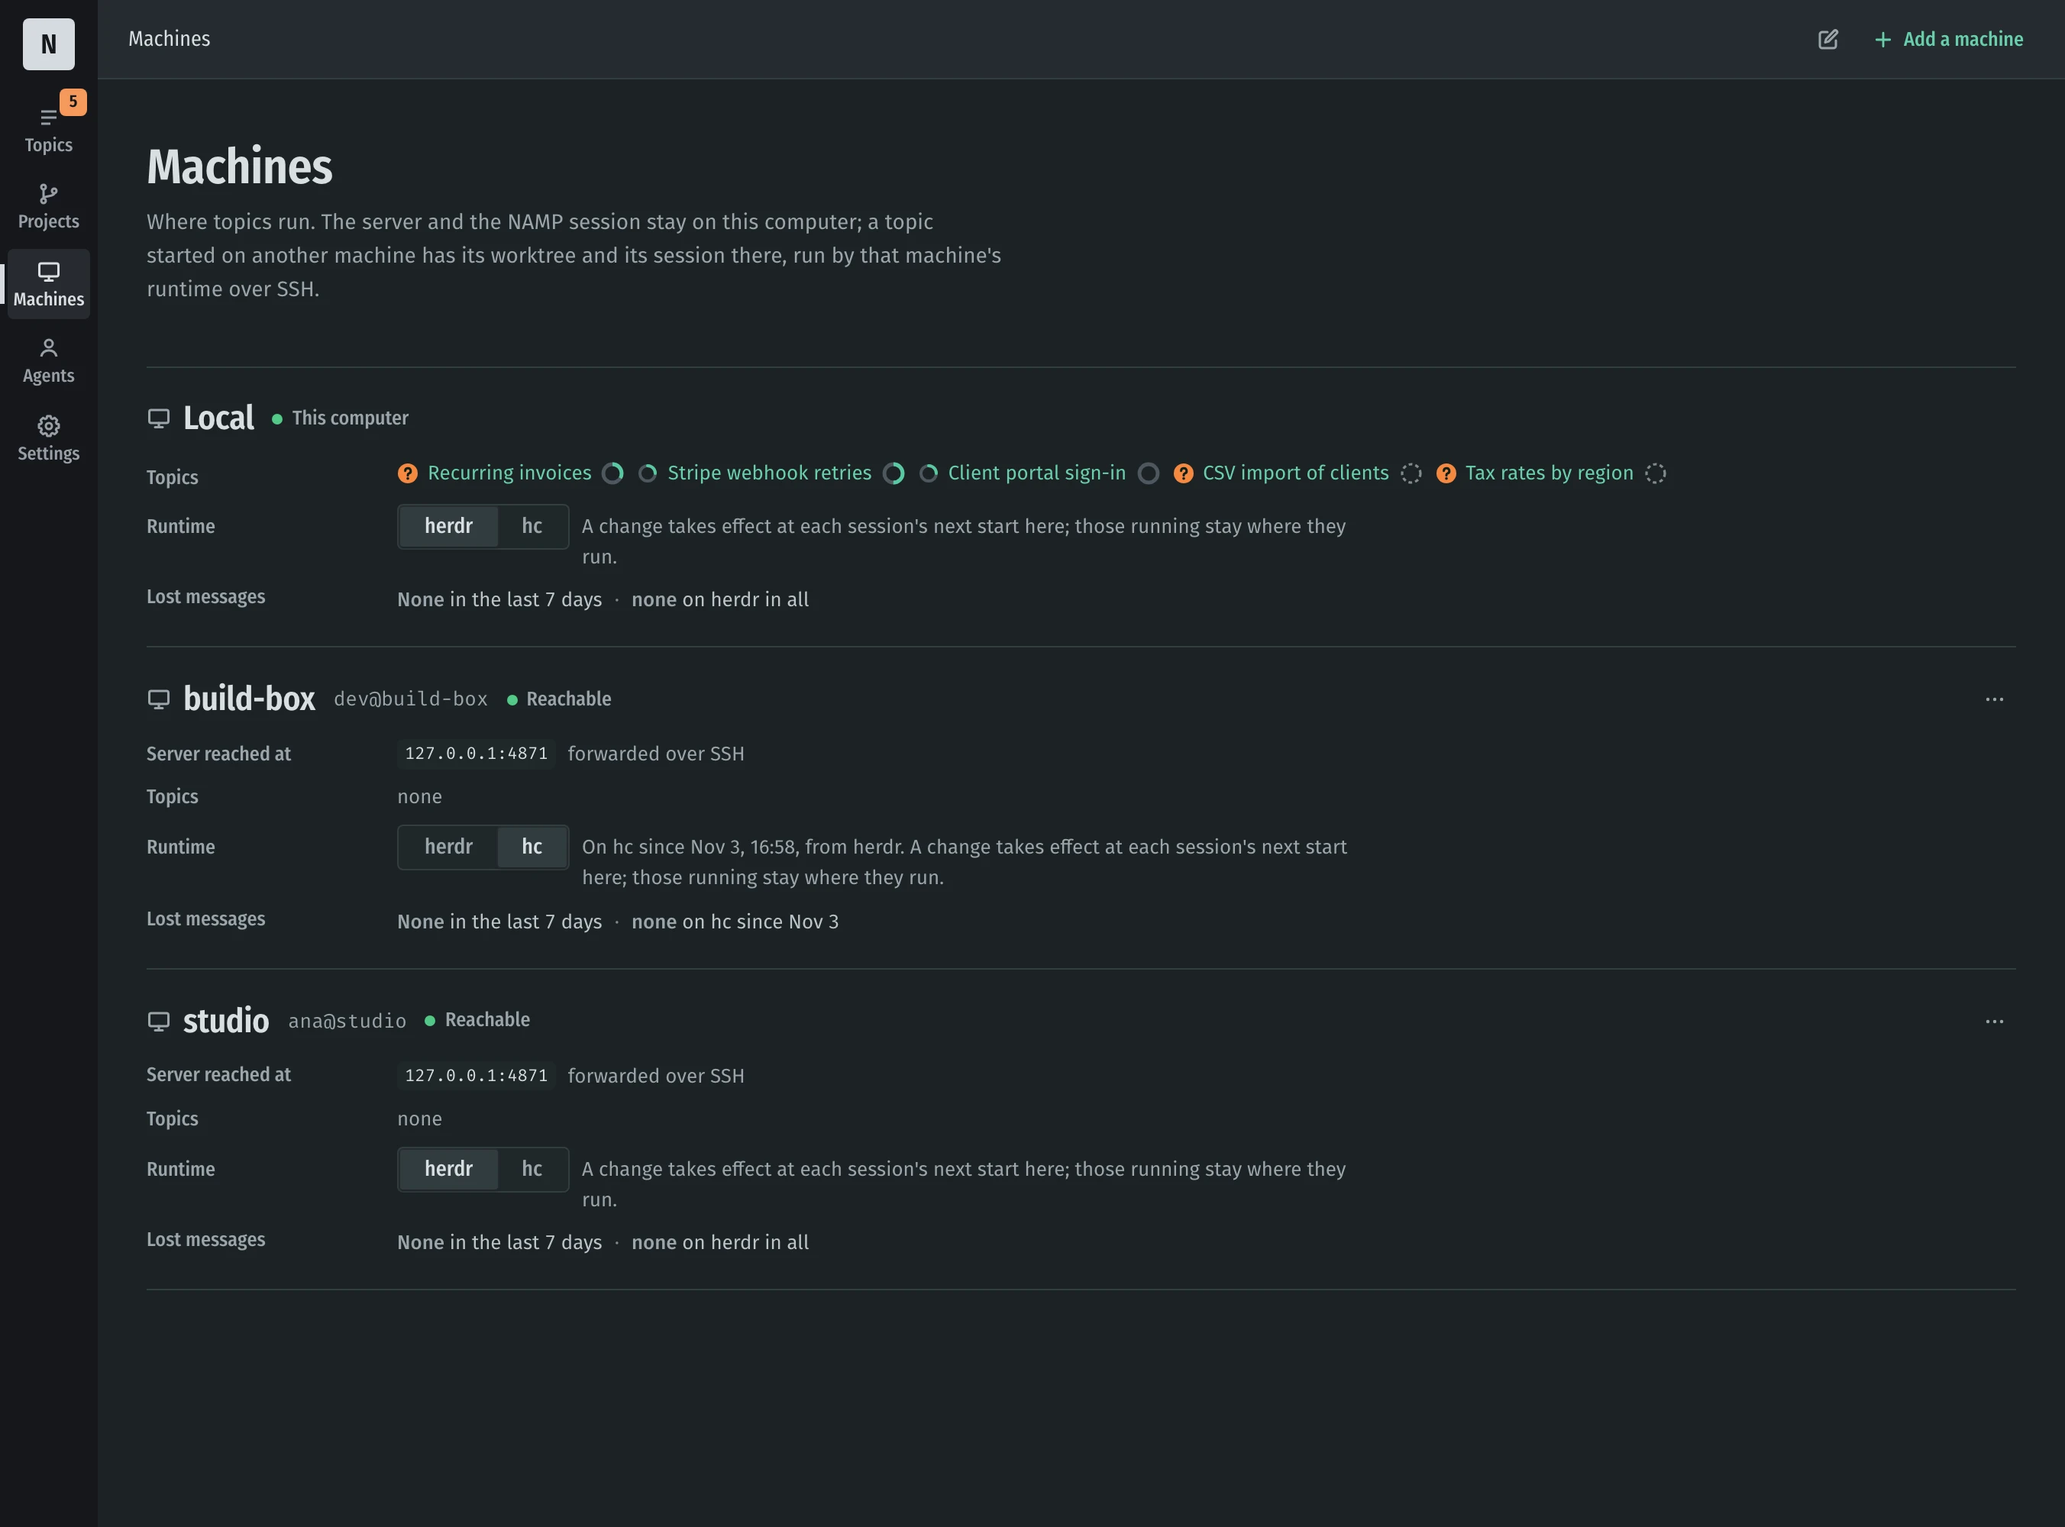
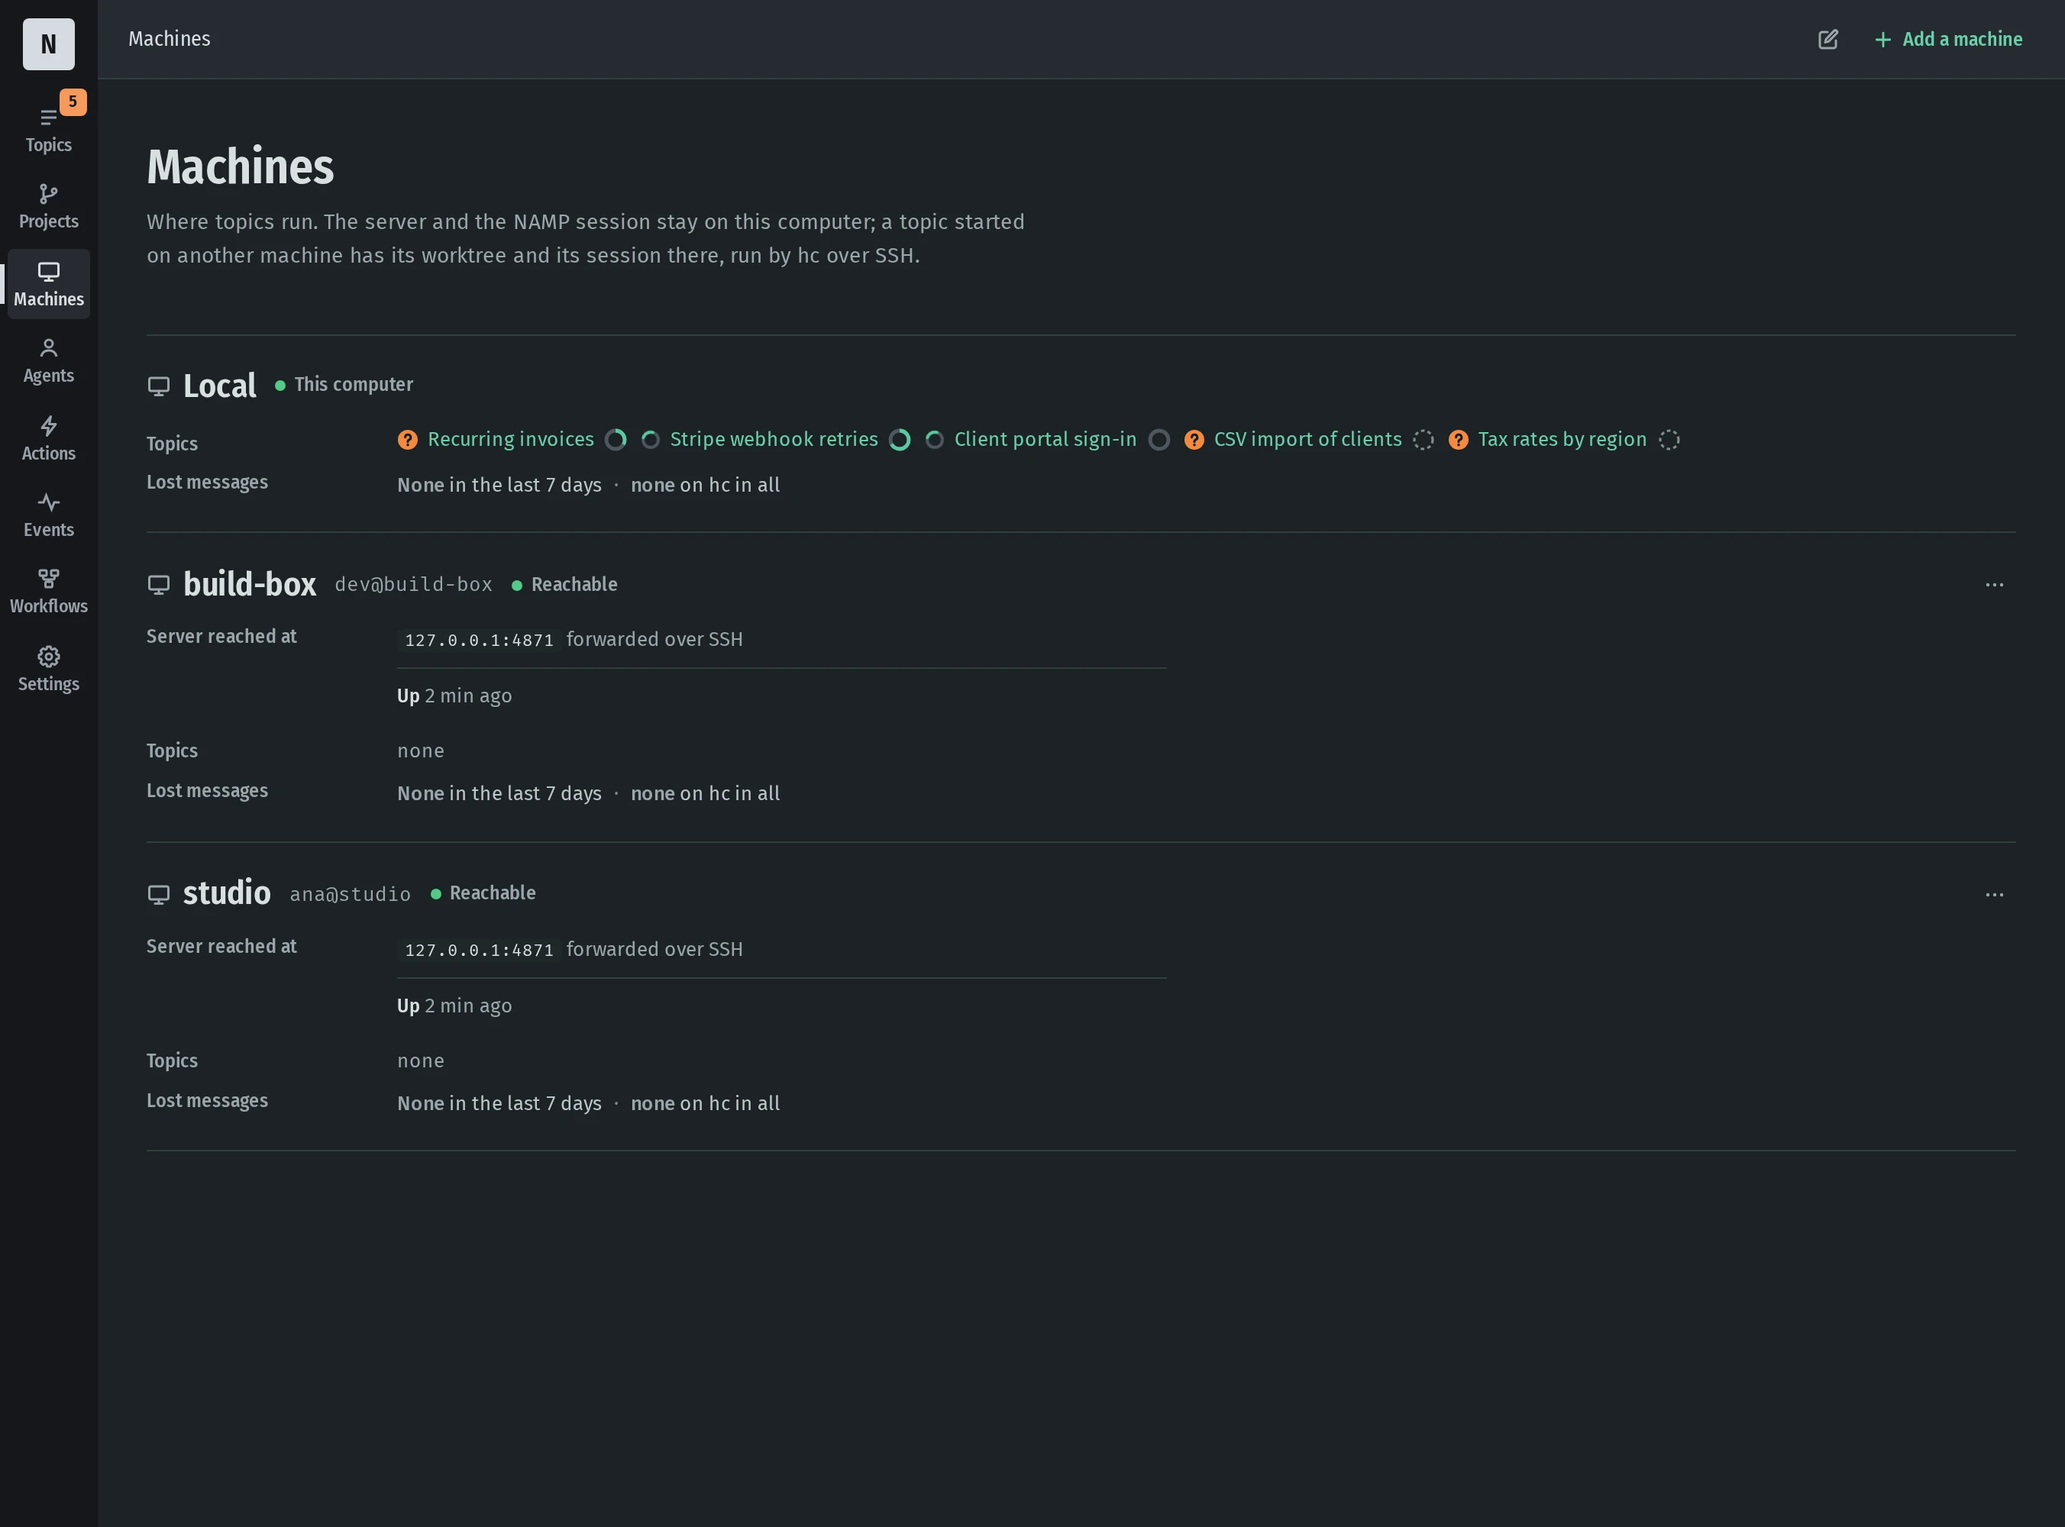
feat: the site says NAMP runs every session on hc, which it brings itself, with its Machines shot retaken from v0.24.0 (#15)
The site shows NAMP as v0.24.0 ships it: every machine runs its sessions
on hc, which NAMP brings itself, and herdr is no longer needed. Merge
once v0.24.0 is published.

- **Docs**: Install drops herdr from what you need, and `namp start`
runs in any terminal; Your first topic's Machines and Focus say hc; the
Overview's word list names hc in place of Runtime; Report an issue drops
`herdr --version`.
- **Issue form**: Bug no longer asks for `herdr --version`.
- **Front page**: the requirements drop herdr, the tour's fourth gain
says hc, and its Machines shot is retaken from v0.24.0's main in Dark
and Light, with no runtime picker, `places.js` measured again on it. The
tour's numbers 1 to 3 no longer show over the Machines shot.

`just test` passes, 222 tests.

🤖 Generated with [Claude Code](https://claude.com/claude-code)

---------

diff --git a/src/routes/+page.svelte b/src/routes/+page.svelte
@@ -14,7 +14,7 @@
     "A topic's canvas page in NAMP: the side column at the left sorts the topic's threads into Needs you, its 2 questions and a reply, and Working, with its goal at 1 of 3 criteria met, Work with 1 of 6 items done, its pull request waiting on your review and its documents; the canvas bar counts its 2 asks and steps through them; Timeline shows today's work by the session and two sibling sessions, two questions open; Since you were here counts 1 done and 2 decided; the decisions D3 and D4 each carry an ask's mark in the gutter.";
 
   const machinesAlt =
-    "NAMP's Machines page: this computer with its five topics, then build-box and studio reached over SSH, each with its status and the runtime that runs its sessions, herdr or hc.";
+    "NAMP's Machines page: this computer with its five topics, then build-box and studio, each Reachable, the server forwarded to it over SSH, and each machine's lost messages, none.";
   const shots = {
     dark: { wide: { src: "/shots/tour-dark.webp", width: WIDE.w, height: WIDE.h }, machines: { src: "/shots/machines-dark.webp", width: MACHINES.w, height: MACHINES.h, alt: machinesAlt } },
     light: { wide: { src: "/shots/tour-light.webp", width: WIDE.w, height: WIDE.h }, machines: { src: "/shots/machines-light.webp", width: MACHINES.w, height: MACHINES.h, alt: machinesAlt } },
@@ -129,12 +129,12 @@
         <li>
           <p>Run the command above in a terminal. It's yours alone: it carries your invite.</p>
           <p class="aside">
-            It checks for herdr and Claude Code, puts <code>namp</code> in <code>~/.local/bin</code> and keeps your
+            It checks for Claude Code, puts <code>namp</code> in <code>~/.local/bin</code> and keeps your
             invite in <code>~/.config/namp</code>, so <code>namp update</code> can fetch the next release.
           </p>
         </li>
         <li>
-          <p>In a herdr pane, run <code>namp start</code>, then open the page it prints.</p>
+          <p>Run <code>namp start</code>, then open the page it prints.</p>
         </li>
       </ol>
       <div class="know">
@@ -167,7 +167,7 @@
     <p class="how">Each tester gets a personal invite link. It shows your install command on this page, and every update comes through it.</p>
     {#if data.contact}{@render ask(false)}{/if}
     <p class="needs">
-      Runs on macOS (Apple Silicon) or Linux (x86-64, ARM64) with <a href="https://github.com/herdrdev/herdr">herdr</a>, and
+      Runs on macOS (Apple Silicon) or Linux (x86-64, ARM64), and
       runs <a href="https://claude.com/claude-code">Claude Code</a> sessions today.
     </p>
   </div>

diff --git a/src/lib/home/Tour.svelte b/src/lib/home/Tour.svelte
@@ -37,8 +37,8 @@
     },
     {
       term: "Your machines, your work",
-      text: "Each machine runs its sessions on herdr or hc. No NAMP service in between, nothing leaves unless you choose.",
-      place: "Machines, each machine with its runtime, on the page NAMP serves on your machine",
+      text: "Each machine runs its sessions on hc, which NAMP brings itself. No NAMP service in between, nothing leaves unless you choose.",
+      place: "Machines, each machine with its topics and status, on the page NAMP serves on your machine",
       ...tour.gains.machines,
     },
   ];
@@ -231,7 +231,7 @@
     {/key}
     {#each gains as gain, i (gain.term)}
       {@const [x, y, , h] = frame(gain.boxes[0], gain)}
-      <span class="badge nb" class:on={sel === i} style="left:{(x / W) * 100}%;top:{((gain.corner === "bottom" ? y + h : y) / H) * 100}%" aria-hidden="true">{i + 1}</span>
+      <span class="badge nb" class:on={sel === i} class:away={(gain.shot === "machines") !== machines} style="left:{(x / W) * 100}%;top:{((gain.corner === "bottom" ? y + h : y) / H) * 100}%" aria-hidden="true">{i + 1}</span>
     {/each}
     <span class="where" class:on={sel === gains.length - 1} aria-hidden="true">localhost:4321</span>
   </div>
@@ -503,6 +503,11 @@
     position: absolute;
     translate: -50% -50%;
     background: var(--bg);
+  }
+
+  /* A number whose part is on the shot not shown, the canvas page's under Machines, hides with it. */
+  .badge.away {
+    opacity: 0;
   }
 
   .badge.on {

diff --git a/src/lib/home/places.js b/src/lib/home/places.js
@@ -75,16 +75,17 @@ export const tour = {
       cut: { shot: "phone-timeline", x: 0, y: 52, w: 402, h: 506 },
     },
     machines: {
-      // Machines: each machine's row with its runtime, herdr or hc, in the Machines shot's px.
+      // Machines: this computer's row with its topics, then each machine's with its status, where it reaches
+      // the server and its lost messages, in the Machines shot's px.
       shot: "machines",
-      boxes: [[83, 232, 1246, 618]],
+      boxes: [[83, 211, 1246, 550]],
       rows: [
-        [87, 236, 1238, 184],
-        [87, 424, 1238, 207],
-        [87, 635, 1238, 211],
+        [87, 215, 1238, 131],
+        [87, 350, 1238, 199],
+        [87, 553, 1238, 204],
       ],
       // On a phone: Machines from its title, through each machine's row.
-      cut: { shot: "machines", x: 64, y: 80, w: 1288, h: 780 },
+      cut: { shot: "machines", x: 64, y: 80, w: 1288, h: 690 },
     },
   },
 };

diff --git a/tests/components/tour.test.js b/tests/components/tour.test.js
@@ -91,7 +91,11 @@ describe("the gains", () => {
   test("your machines shows Machines over the canvas page, marks its machines and its address on your machine", async () => {
     render(Tour, { alt: "a topic's canvas page", shots });
     expect(document.querySelector(".frame").classList.contains("machines")).toBe(false);
+    const away = () => [...document.querySelectorAll(".badge")].map((b) => b.classList.contains("away"));
+    expect(away()).toEqual([false, false, false, true]);
     await fireEvent.click(tabs()[3]);
+    // The canvas page's numbers hide with it, their parts not on Machines.
+    expect(away()).toEqual([true, true, true, false]);
     expect(document.querySelector(".frame").classList.contains("machines")).toBe(true);
     expect([...document.querySelectorAll(".frame .alt img")].map((i) => [i.getAttribute("src"), i.getAttribute("alt")])).toEqual([
       ["/shots/machines-dark.webp", "namp's Machines page"],

diff --git a/docs/install.md b/docs/install.md
@@ -5,7 +5,6 @@ One command from your invite installs NAMP, then `namp start` runs it.
 ## What you need
 
 - macOS on Apple Silicon, or Linux on x86_64 or arm64.
-- [herdr](https://github.com/herdrdev/herdr): NAMP runs its sessions in herdr's panes.
 - [Claude Code](https://claude.com/claude-code), logged in: NAMP's sessions are Claude Code's today.
 - curl or wget, tar, and sha256sum or shasum, which most systems have already.
 
@@ -22,10 +21,10 @@ The token is yours alone: keep it to yourself. On a Mac, install with the comman
 It downloads the latest release for your machine, checks its sha256, and says where NAMP went:
 
 ```text
-Downloading namp 0.20.0 for aarch64-apple-darwin.
-namp 0.20.0 is installed in /Users/you/.local/bin/namp.
+Downloading namp 0.24.0 for aarch64-apple-darwin.
+namp 0.24.0 is installed in /Users/you/.local/bin/namp.
 
-Start namp from a herdr pane with:
+Start namp with:
   namp start
 and open the link it prints. namp update moves it to a newer release.
 ```
@@ -35,7 +34,7 @@ and open the link it prints. namp update moves it to a newer release.
 - **NAMP itself** goes in `~/.local/bin/namp`. When that folder is not on your `PATH`, the installer says so: add it in your shell's profile, or run NAMP by its full path.
 - **Your invite** goes in `~/.config/namp/install.json`, readable by you alone: the site you installed from and your token, which `namp update` reads.
 
-When herdr or Claude Code is missing, the installer still installs NAMP and says where to get them.
+When Claude Code is missing, the installer still installs NAMP and says how to get it.
 
 ### If it stops
 
@@ -47,7 +46,7 @@ It installs nothing when something is wrong, and says what in one line:
 
 ## Start NAMP
 
-In a herdr pane, run:
+In a terminal, run:
 
 ```sh
 namp start
@@ -57,7 +56,7 @@ namp start
 ready http://localhost:4321/__session/  pid 48213
 ```
 
-It starts NAMP's server in the background, on port 4321, and prints the page's address: open it in your browser. The server starts your NAMP session in herdr, the session you talk to about all your work, pinned at the top of the page's topics. Run it outside herdr and the server starts no session.
+It starts NAMP's server in the background, on port 4321, and prints the page's address: open it in your browser. The server starts your NAMP session, the session you talk to about all your work, pinned at the top of the page's topics.
 
 Run `namp start` again and it says it runs already, with the same address. `--port` picks another port. To stop the server, kill the `pid` it printed.
 

diff --git a/docs/index.md b/docs/index.md
@@ -1,6 +1,6 @@
 # Overview
 
-NAMP keeps you the operator of your agent sessions, not their relay. It is a page in your browser where your sessions, Claude Code's today, put their canvases, questions and threads, one topic each, and where you answer them. It runs whole on your machine, and starts and resumes the sessions through herdr, or hc on a machine you switch to it.
+NAMP keeps you the operator of your agent sessions, not their relay. It is a page in your browser where your sessions, Claude Code's today, put their canvases, questions and threads, one topic each, and where you answer them. It runs whole on your machine, and starts and resumes the sessions in terminals of its own, on hc, which it brings to each machine itself.
 
 These pages are for the testers of its private alpha.
 
@@ -15,11 +15,11 @@ These pages are for the testers of its private alpha.
 ## Words you will meet
 
 - **Topic**: one piece of work, with its goal, its plan, its canvas, the questions asked in it and its threads.
-- **Session**: an agent session working on a topic, in a terminal its machine's runtime runs, herdr or hc. A topic has one, and it may start more for parts of the work.
+- **Session**: an agent session working on a topic, in a terminal NAMP runs on its machine. A topic has one, and it may start more for parts of the work.
 - **Side column**: the pills and sections at the start of a topic's page, its threads, goal, work, pull request and documents, each opening whole in the drawer.
 - **Inbox**: the side column's Threads, every thread of the topic in sections, Needs you and Working first.
 - **Canvas**: the Markdown document a session writes for its topic: what it decided, what it did, what waits for you. A topic opens on its first canvas.
 - **Ask**: what waits for you to act, such as a question, a goal to accept or a session that is blocked. One on a canvas is a mark beside its text, and the canvas bar counts them and steps through them.
 - **Question**: a decision a session needs from you, with its context and its choices.
 - **Thread**: a conversation with the sessions, on one subject, pinned to a part of a canvas or not.
-- **Runtime**: what runs a machine's sessions, herdr or hc, picked for each machine in Machines.
+- **hc**: the terminal core that runs a machine's sessions, which NAMP pins and brings to each machine itself.

diff --git a/docs/first-topic.md b/docs/first-topic.md
@@ -16,7 +16,7 @@ Press `⌘K`, `Ctrl+K` off a Mac, from anywhere to go to a topic: the palette li
 
 Press **+ New topic**, at the top of the sidebar, and fill in:
 
-- **Machine**, once herdr has another machine saved: **Local**, this computer, or the one the session runs on.
+- **Machine**, once Machines has another machine saved: **Local**, this computer, or the one the session runs on.
 - **Project** or **Folder**, where the session works. A project is a git clone you register once in Projects: each topic on it works in a worktree of its own, on a new branch named after the topic, which **Worktree from** starts from the project's default branch unless you pick another. A folder is any absolute path.
 - **Title**, the topic's name, and its **Goal**, in one line: what the work is meant to reach.
 - **Brief**: how the session should work towards it, and what it should produce.
@@ -79,9 +79,9 @@ To write to a session from any page, press **+** in the inbox's head, the pencil
 
 ## Where a session runs
 
-**Machines**, on the rail, shows where your topics run: **Local**, this computer, first, then each machine herdr saved, with whether it answers and its topics. Each machine picks its **Runtime**, **herdr** or **hc**, what runs its sessions: herdr until you pick hc. A change takes effect at each session's next start there.
+**Machines**, on the rail, shows where your topics run: **Local**, this computer, first, then each machine you added with **Add a machine**, reached over SSH, with whether it answers and its topics. Every machine runs its sessions on hc, which NAMP brings there itself.
 
-**Focus**, at the right of a topic's top bar, brings its session's terminal to the front in herdr. On hc, which has no window of its own, it gives the command to attach a terminal to the session, with **Copy the command**:
+**Focus**, at the right of a topic's top bar, gives the command to attach a terminal to its session, with **Copy the command**:
 
 ```sh
 namp attach <topic>

diff --git a/PRODUCT.md b/PRODUCT.md
@@ -52,7 +52,7 @@ multiplexer.
 
 ## Capabilities and Constraints
 
-- namp runs on macOS (Apple Silicon) or Linux (x86-64, ARM64) with herdr, and runs Claude Code
+- namp runs on macOS (Apple Silicon) or Linux (x86-64, ARM64), and runs Claude Code
   sessions today. Say *agent sessions*; name Claude Code only where it is today's fact.
 - A private alpha: no public download, no pricing, no sign-up. An invite is asked for by mail.
 - The site loads nothing from another host: its fonts are self-hosted, and it has no analytics

diff --git a/docs/report-an-issue.md b/docs/report-an-issue.md
@@ -4,18 +4,16 @@ Bugs, ideas and questions about NAMP and this site go in the site's issues on Gi
 
 ## Get the versions
 
-Run these three in a terminal:
+Run these two in a terminal:
 
 ```sh
 namp --version
 claude --version
-herdr --version
 ```
 
 ```text
-namp 0.20.0 (b0c58e9 2026-11-03)
+namp 0.24.0 (b0c58e9 2026-11-19)
 2.1.317 (Claude Code)
-herdr 0.9.5
 ```
 
 NAMP's line names its version, the commit it was built from and that commit's date: paste it whole.
